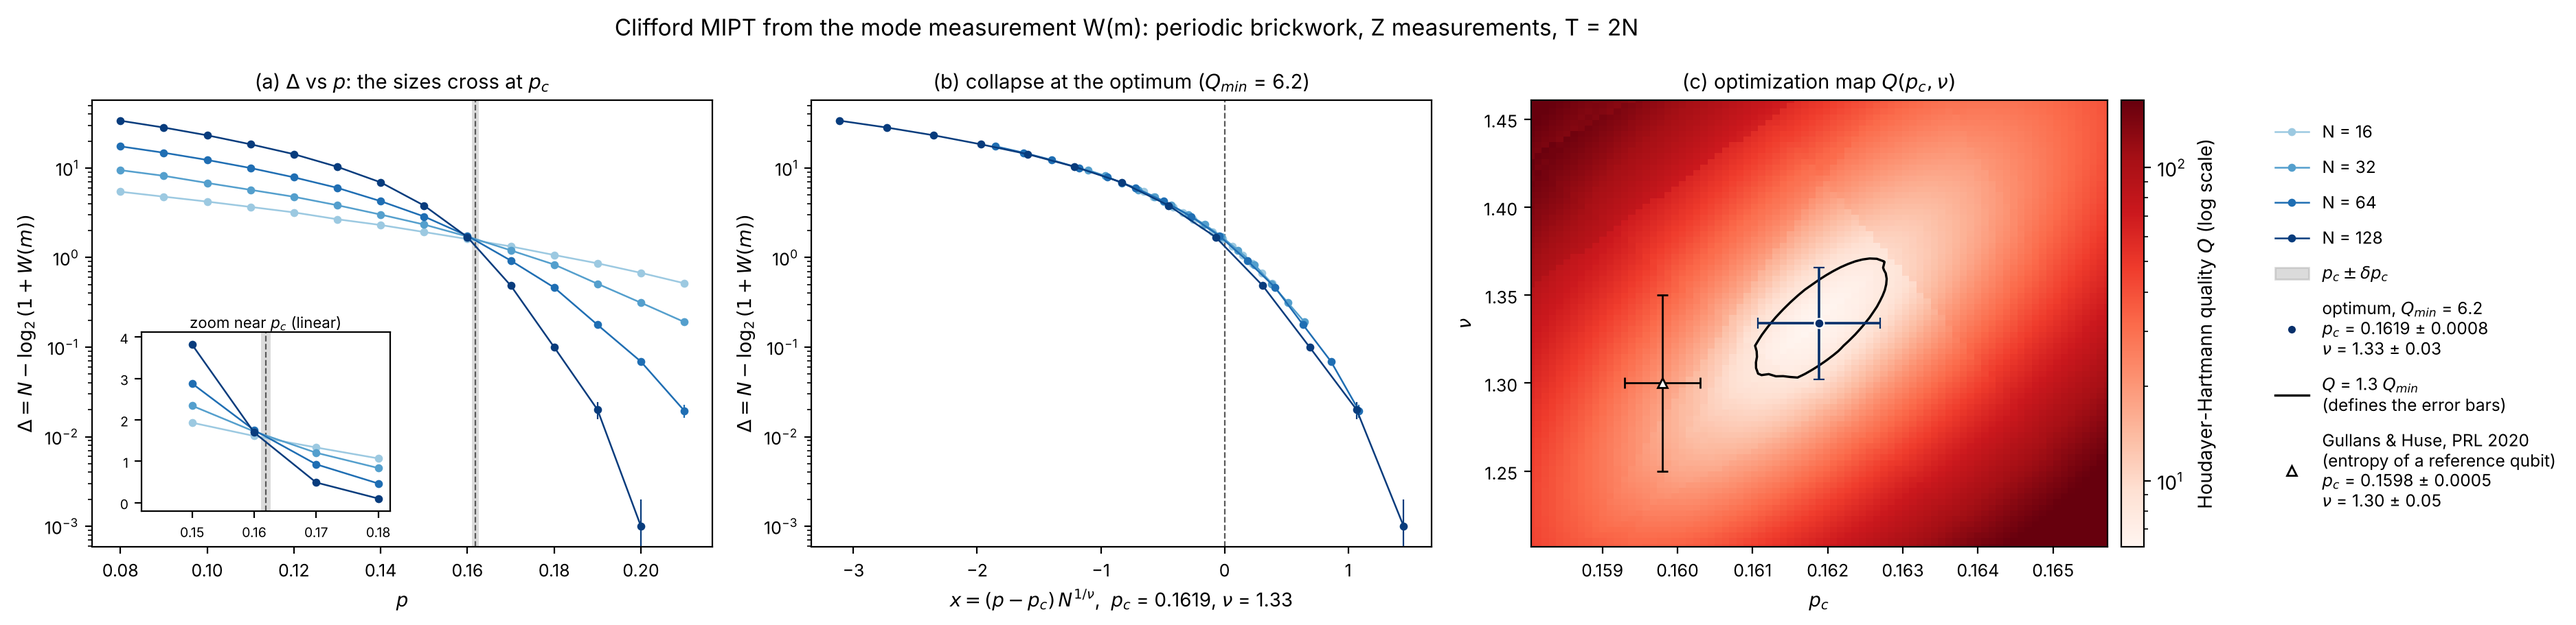
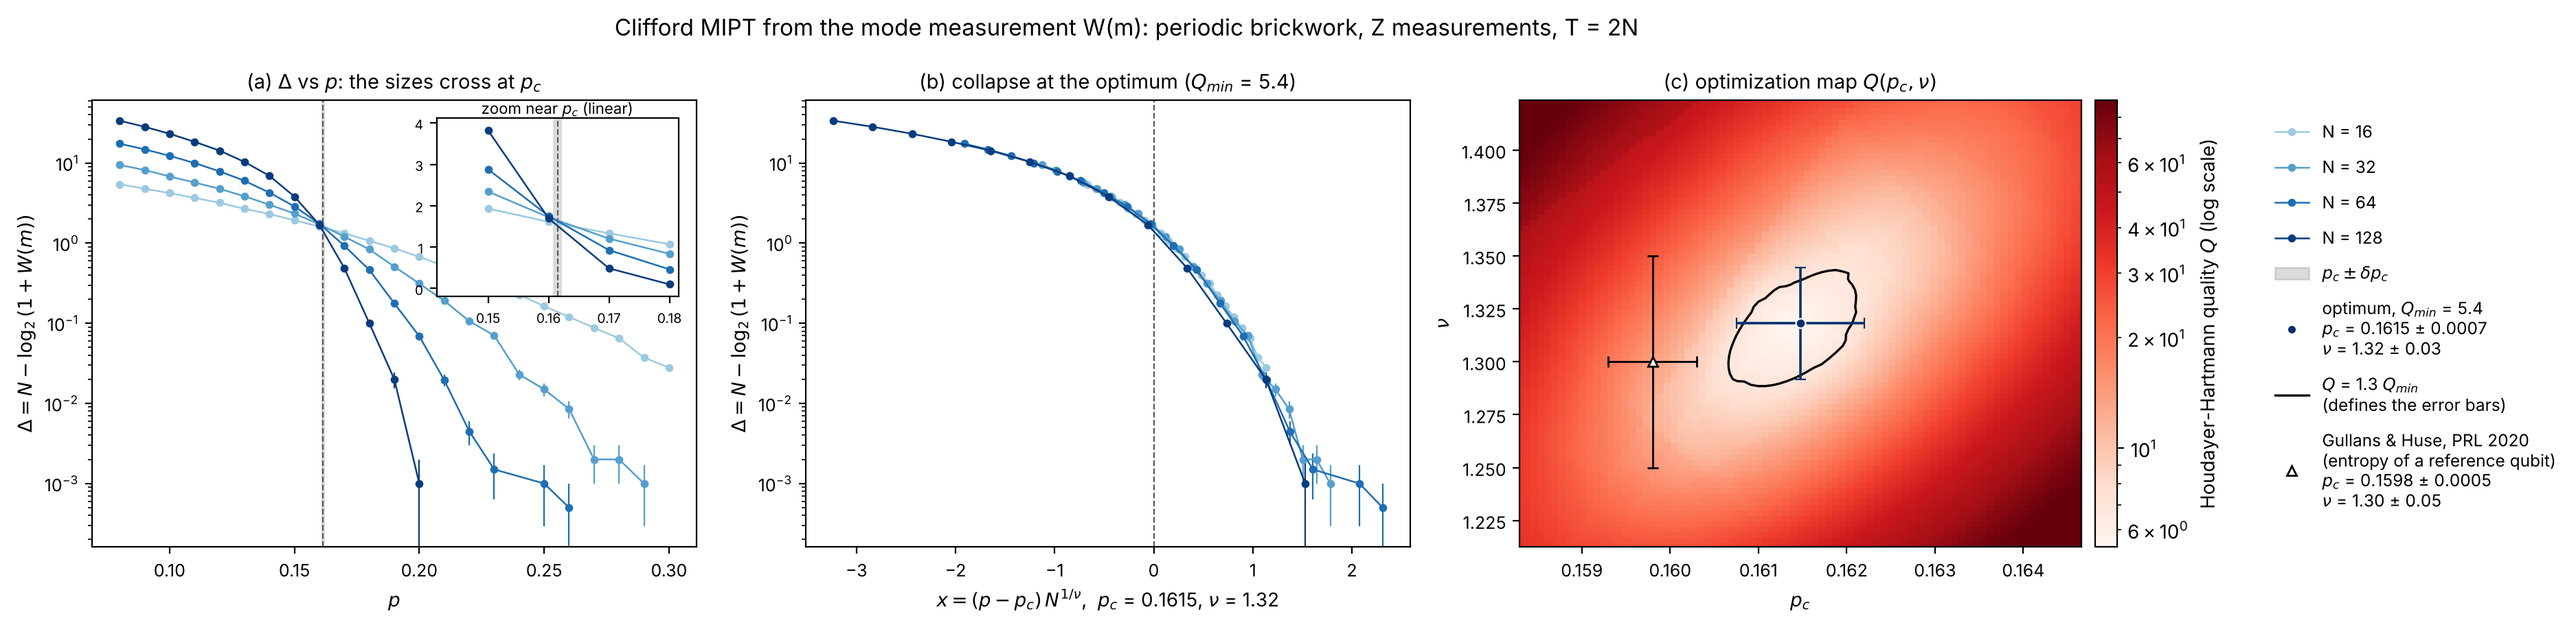
Clifford methodology figure: keep all p (no p <= 0.21 cut)
p_c = 0.1615 +/- 0.0007, nu = 1.32 +/- 0.03, Q_min = 5.4, as in
pc_nu_plane.py. --p-max still cuts the tail on demand.

Refs #379

Claude-Session: https://claude.ai/code/session_0185MugwZk6ZrDkkL1g7UFMb

diff --git a/experiments/collapse_error_budget/clifford_methodology.py b/experiments/collapse_error_budget/clifford_methodology.py
@@ -4,9 +4,8 @@
 Everything comes from the mode measurement ``W(m)`` through the order
 parameter ``Delta = N - log2(1 + W(m))`` of #346 (periodic brickwork of
 random Clifford gates, ``Z`` measurements with probability ``p``,
-``T = 2N``, ``N = 16, 32, 64, 128``, the values of ``p`` from 0.08 to
-0.21 only (``--p-max``): above, ``Delta`` of the large sizes is tiny and
-noisy and carries no information on the transition).
+``T = 2N``, ``N = 16, 32, 64, 128``, all 23 values of ``p`` from 0.08 to
+0.30; ``--p-max`` can cut the tail).
 One figure, three panels:
 
 (a) ``Delta`` against ``p`` for every ``N`` (shades of blue, light for small
@@ -78,7 +77,7 @@ def crossing_panel(ax: Any, curves: dict[int, Curve], pc: float, dpc: float) -> 
     """(a) ``Delta(p)`` per size, the band ``p_c ± δp_c`` and a linear zoom."""
     sizes = sorted(curves)
     cols = blues(len(sizes))
-    ins = ax.inset_axes([0.08, 0.08, 0.4, 0.4])
+    ins = ax.inset_axes([0.57, 0.56, 0.4, 0.4])
     lo, hi = pc - 0.02, pc + 0.02
     zoom = []
     for col, n in zip(cols, sizes, strict=True):
@@ -176,8 +175,8 @@ def figure(curves: dict[int, Curve], row: dict[str, Any], out: Path) -> dict[str
 def main() -> None:
     ap = argparse.ArgumentParser(description=__doc__.splitlines()[0])
     ap.add_argument("--out", type=Path, default=HERE / "figures")
-    ap.add_argument("--p-max", type=float, default=0.21,
-                    help="keep only p <= p_max (default 0.21)")  # fmt: skip
+    ap.add_argument("--p-max", type=float, default=1.0,
+                    help="keep only p <= p_max (default: all p)")  # fmt: skip
     a = ap.parse_args()
     a.out.mkdir(parents=True, exist_ok=True)
     curves: dict[int, Curve] = {}

diff --git a/experiments/collapse_error_budget/README.md b/experiments/collapse_error_budget/README.md
@@ -100,8 +100,7 @@ to them.
 
 One figure that explains the method on Clifford, from the mode measurement
 `W(m)` only: `Delta = N - log2(1 + W(m))` of #346, `T = 2N`,
-`N = 16, 32, 64, 128`, the 14 values of `p` from 0.08 to 0.21 (above,
-`Delta` of the large sizes is tiny and noisy). `I3` and
+`N = 16, 32, 64, 128`, all 23 values of `p` from 0.08 to 0.30. `I3` and
 `S(N/2)` (#358) are left out on purpose: they come from the state of the
 references, not from `W(m)`.
 
@@ -113,13 +112,12 @@ references, not from `W(m)`.
 `N`): the curves cross at `p_c` (grey band `p_c ± δp_c`, linear zoom in
 the inset). **(b)** the collapse against `(p - p_c) N^(1/nu)` at the
 optimum. **(c)** the exact Houdayer-Hartmann quality `Q` over
-`(p_c, nu)` (red, log scale, light near `Q_min`, dark for high `Q`): the optimum `Q_min = 6.2` at
-`p_c = 0.1619 ± 0.0008`, `nu = 1.33 ± 0.03`, the contour
+`(p_c, nu)` (red, log scale, light near `Q_min`, dark for high `Q`): the optimum `Q_min = 5.4` at
+`p_c = 0.1615 ± 0.0007`, `nu = 1.32 ± 0.03`, the contour
 `Q = 1.3 Q_min` whose projections give these bars, and Gullans & Huse
 (PRL 2020, entropy of a reference qubit: `0.1598 ± 0.0005`, `1.30 ± 0.05`).
-The fit is redone on `p <= 0.21` (`--p-max`); with all 23 values of `p`
-it gives `0.1615 ± 0.0007`, `1.32 ± 0.03`, `Q_min = 5.4`
-(`pc_nu_plane.py`). A few seconds.
+Same values as `pc_nu_plane.py`. `--p-max 0.21` cuts the tail and gives
+`0.1619 ± 0.0008`, `1.33 ± 0.03`, `Q_min = 6.2`. A few seconds.
 
 ## No-readout methodology figures (`no_readout_methodology.py`, #385)
 
